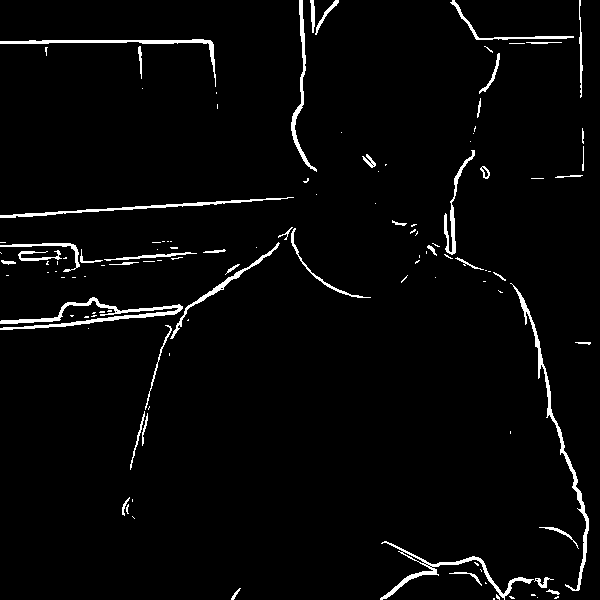
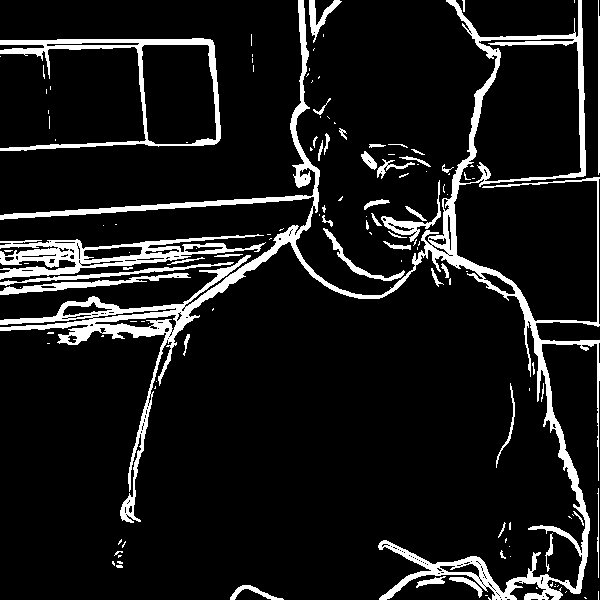
Changed threshold to 20

diff --git a/image_utils.py b/image_utils.py
@@ -19,7 +19,7 @@ def preprocess_image(image):
     """
     return median(image, ball(3))
 
-def edge_detection(image, threshold=50, save_path='edges.png'):
+def edge_detection(image, threshold=20, save_path='edges.png'):
     """
     Perform edge detection using Sobel operator and binary thresholding.
     """
